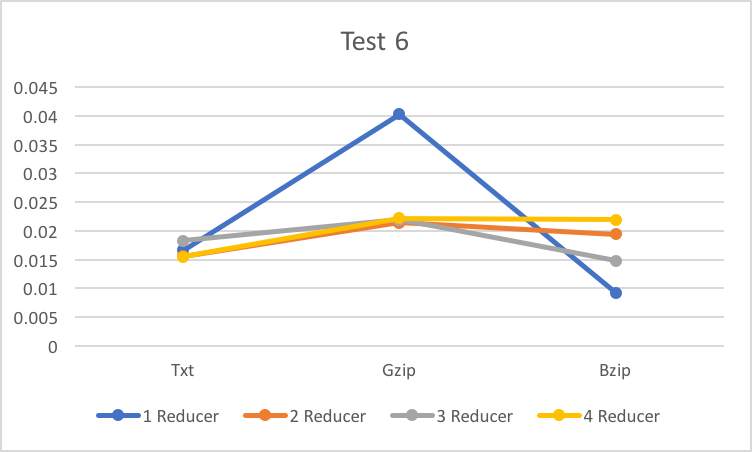
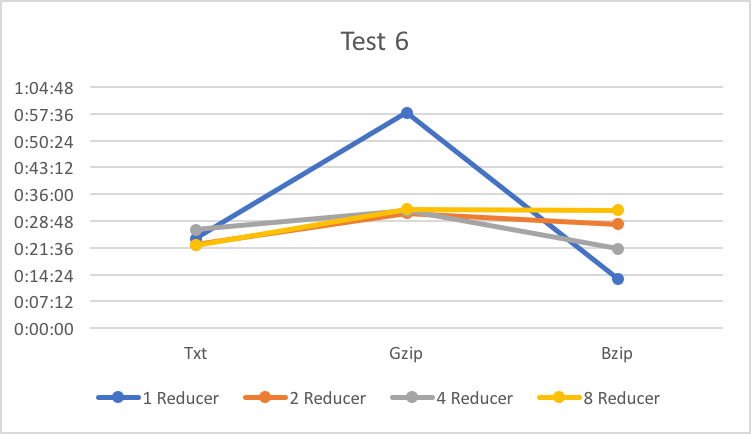
Update

diff --git a/ITMD-521/Week-14/README.md b/ITMD-521/Week-14/README.md
@@ -144,31 +144,36 @@
     - This test, checks for malformed records and displays the count as well checks the maximum temperature
 
 ## Analysis
-    -
+    - This test gives, different results for each reducer and file format
     - Thus to analyze further, we would consider the Map, Shuffle, Merge and Reduce time of each format for every number of reducer
     
 ![Test 5: Individual result](https://github.com/illinoistech-itm/bshah40/blob/master/ITMD-521/Week-14/images/5.2.png)
     
-    Map time: Here again, Gzip format has the most time during the map phase due to unsplittable file and to compress a single block of large data before processing to Reducer class takes time. Bzip format also takes time to map since the number of maps created are less compared to text file and again compressing them. Text format is the quickest amongst the three due to the ability of many maps and compression ratio
+    Map time: While again, Txt has least time followed by Bzip and then Gzip. Also, due to the compression, single file block times the most time. Which would be the case with Gzip and Bzip.
     
-    Shuffle time: With combiner, the shuffle phase is the most affected. Gzip format having just one block of output from the Mapper class has the least time.
+    Shuffle time: Shuffle is most for Txt since the out of Map is compressed and has many splits, which is followed by Bzip for less splits and then Gzip
     
-    Reduce time:
+    Reduce time: Time should ideally have reduced with increase in number of reducers but doesn't seem the case here
+    
+## Conclusion
+    - Result of the test doesn't seem accurate due to the resources allocated and number of processes killed while they were succeded first
+    - Best result set in this test would have been Gzip
     
 # Test 6: With combiner and without intermediate compression on 90
     
 ![Test 6 result](https://github.com/illinoistech-itm/bshah40/blob/master/ITMD-521/Week-14/images/6.1.png)
     
-    - In this test we are using file formarts of txt, gzip and bzip and working on with combiner and with intermediate compression
+    - In this test we are using file formarts of txt, gzip and bzip and working on with combiner and without intermediate compression
     - As inferred from the image, y-axis is the duration, x-axis is the file formats and different lines show different reducers
-    - Here, with intermediate compression the output of the Mapper class is compressed before processing it to Reducer class and with combiner minimal amount of data is passed to Reducer from Mapper thus reducing the shuffle time.
+    - Here, with combiner the output of the Mapper class is reduced before processing it to Reducer class and with combiner minimal amount of splits passed to Reducer from Mapper thus reducing the shuffle time.
+    - This test, checks for malformed records and displays the count as well checks the maximum temperature
     
-![Test 6: Individual result](https://github.com/illinoistech-itm/bshah40/blob/master/ITMD-521/Week-14/images/6.2.png)
-    
-    ## Analysis
-    - In this test we see that average duration of each test is quiet different for Gzip format however with the increase in numbner of reducer the duration for Text file has increase. It's  the same with Bzip format.
+## Analysis
+    - Outputs of the results are displaying 
     - Thus to analyze further, we would consider the Map, Shuffle, Merge and Reduce time of each format for every number of reducer
-    
+
+![Test 6: Individual result](https://github.com/illinoistech-itm/bshah40/blob/master/ITMD-521/Week-14/images/6.2.png)
+
     Map time: Here again, Gzip format has the most time during the map phase due to unsplittable file and to compress a single block of large data before processing to Reducer class takes time. Bzip format also takes time to map since the number of maps created are less compared to text file and again compressing them. Text format is the quickest amongst the three due to the ability of many maps and compression ratio
     
     Shuffle time: With combiner, the shuffle phase is the most affected. Gzip format having just one block of output from the Mapper class has the least time.
